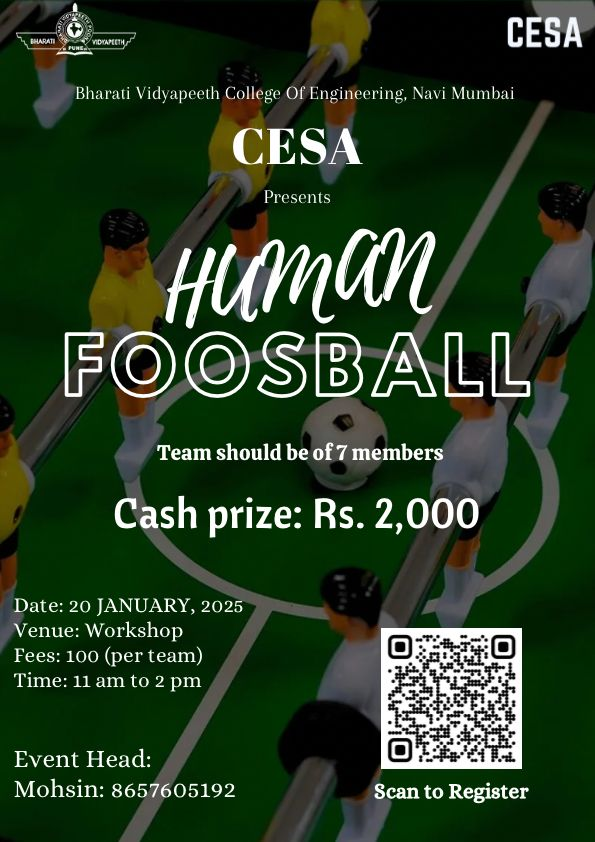
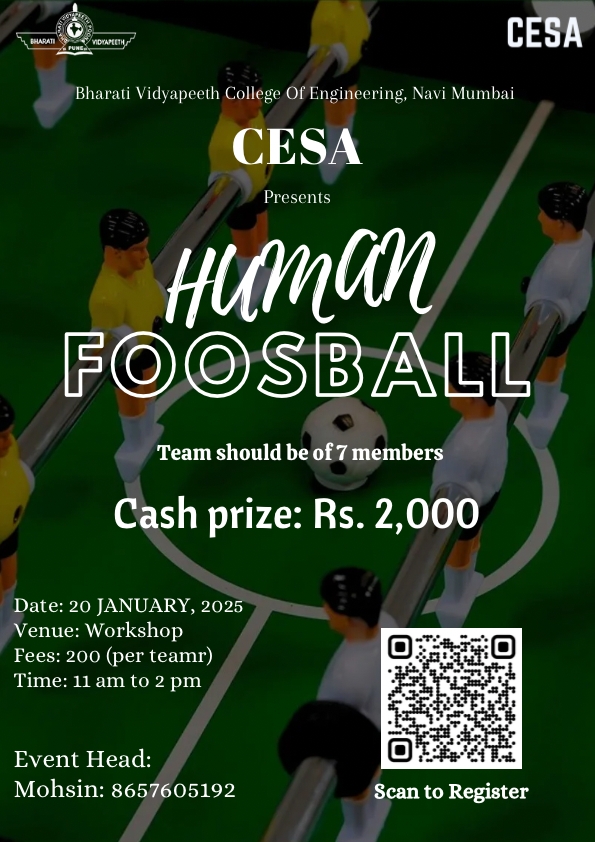
fix: update registration fee for Human Foosball event

Changed region(s): [[0.0908, 0.772, 0.363, 0.8029]]

diff --git a/src/utils/event-data.ts b/src/utils/event-data.ts
@@ -65,7 +65,7 @@ export const Events: Event[] = [
   {
     slug: 'human-foosball',
     title: 'Human Foosball',
-    price: '₹100',
+    price: '₹200',
     isTeamGame: true,
     main_image: '/events/foosball.png',
     date: '20',
@@ -81,7 +81,7 @@ export const Events: Event[] = [
     <br/><br/>Transform into life-sized foosball players and compete for glory!
     <br/><br/><b>📅 Date:</b> 20th January 2024
     <br/><b>📍 Venue:</b> Room 107
-    <br/><b>💰 Registration Fee:</b> ₹100
+    <br/><b>💰 Registration Fee:</b> ₹200
     <br/><b>⌚ Time:</b> 11:00AM - 02:00PM
     
     <br/><br/>🏆 <b>FIRST PRIZE:</b> ₹2000
